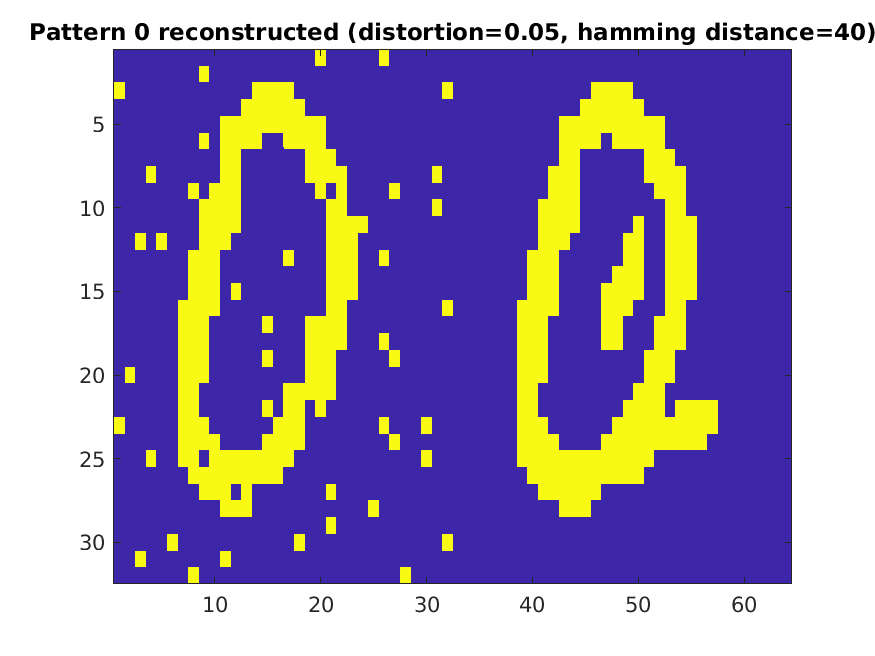
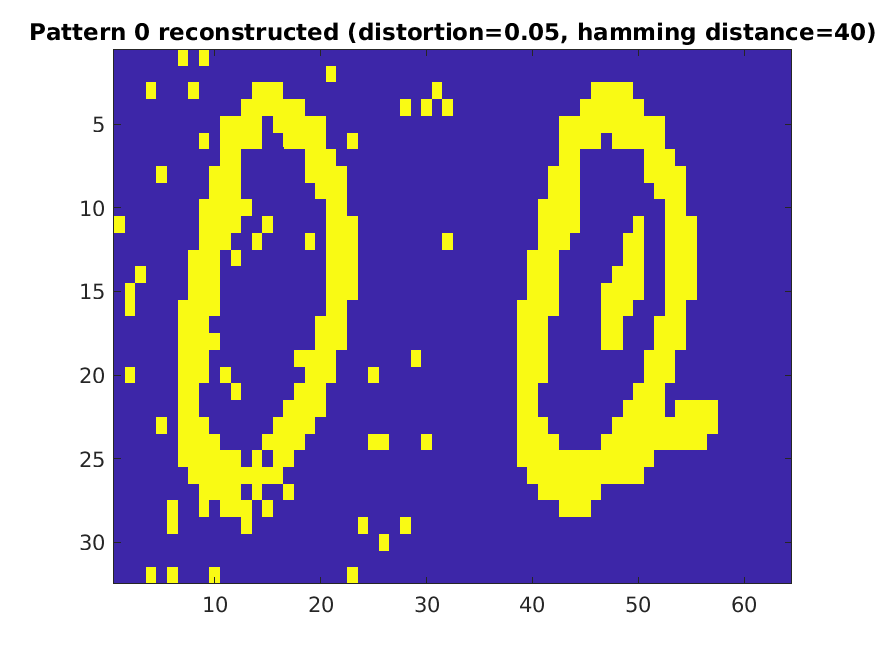
refactoring

diff --git a/LAB2_2/Assignment1/hopfield.m b/LAB2_2/Assignment1/hopfield.m
@@ -1,35 +1,18 @@
 % Hopfield model
-% <https://elearning.di.unipi.it/pluginfile.php/46092/mod_resource/content/0/LAB2_2-Assignments.pd>
+% <https://elearning.di.unipi.it/mod/resource/view.php?id=10695>
 
 load('lab2_2_data');
 set(groot,'defaultFigureVisible','off');
 
 % distorted images of pattern 0
-d_0_1_orig = distort_image(p0,0.05);
-d_0_2_orig = distort_image(p0,0.1);
-d_0_3_orig = distort_image(p0,0.25);
-d_0_1 = d_0_1_orig;
-d_0_2 = d_0_2_orig;
-d_0_3 = d_0_3_orig;
+d_0_1 = distort_image(p0,0.05); d_0_2 = distort_image(p0,0.1); d_0_3 = distort_image(p0,0.25);
 % distorted images of pattern 1
-d_1_1_orig = distort_image(p1,0.05);
-d_1_2_orig = distort_image(p1,0.1);
-d_1_3_orig = distort_image(p1,0.25);
-d_1_1 = d_1_1_orig;
-d_1_2 = d_1_2_orig;
-d_1_3 = d_1_3_orig;
+d_1_1 = distort_image(p1,0.05); d_1_2 = distort_image(p1,0.1); d_1_3 = distort_image(p1,0.25);
 % distorted images of pattern 2
-d_2_1_orig = distort_image(p2,0.05);
-d_2_2_orig = distort_image(p2,0.1);
-d_2_3_orig = distort_image(p2,0.25);
-d_2_1 = d_2_1_orig;
-d_2_2 = d_2_2_orig;
-d_2_3 = d_2_3_orig;
-%imagesc([reshape(d_0_1,32,32) reshape(d_0_2,32,32) reshape(d_0_3,32,32)]);
+d_2_1 = distort_image(p2,0.05); d_2_2 = distort_image(p2,0.1); d_2_3 = distort_image(p2,0.25);
 eps = 1;
 
-
-% (1) storage phase (learning)
+%% (1) storage phase (learning)
 P = [p0';p1';p2'];
 W = 1/1024 * (P' * P);
 for i=1:1024
@@ -37,13 +20,14 @@ for i=1:1024
 end
 I = ones(1024,1)*0.5;  % bias
 
-% (2) retrieval phase
-% (2.1) initialization
-O = [d_0_1_orig';d_0_2_orig';d_0_3_orig';d_1_1_orig';d_1_2_orig';d_1_3_orig';d_2_1_orig';d_2_2_orig';d_2_3_orig'];  % original images
-D = [d_0_1';d_0_2';d_0_3';d_1_1';d_1_2';d_1_3';d_2_1';d_2_2';d_2_3'];  % distorted images
+%% (2) retrieval phase
+%% (2.1) initialization
+O = [d_0_1';d_0_2';d_0_3';d_1_1';d_1_2';d_1_3';d_2_1';d_2_2';d_2_3'];  % original images
+D = O;  % distorted images
 L = [[0,0.05];[0,0.10];[0,0.25];[1,0.05];[1,0.10];[1,0.25];[2,0.05];[2,0.10];[2,0.25]];  % patterns info
-Ps = [p0';p0';p0';p1';p1';p1';p2';p2';p2'];
+Ps = [p0';p0';p0';p1';p1';p1';p2';p2';p2'];  % patterns of each distorted images
 
+% for each pattern distortions
 for p=1:size(D,1)
     epoch = 1;
     overlaps = [];
@@ -51,9 +35,9 @@ for p=1:size(D,1)
     pattern_num = L(p,1);
     pattern_distortion = L(p,2);
     energy_old = energy(W, I, D(p,:));
-    % (2.2) iteration until convergence
+    %% (2.2) iteration until convergence
     while 1
-        % (2.3) choose i random neuron
+        %% (2.3) choose i random neuron
         for i=randperm(1024)
             D(p,i) = sign(W(i,:) * D(p,:)' + I(i));
             overlaps = horzcat(overlaps,[overlap(p0, D(p,:)) overlap(p1, D(p,:)) overlap(p2, D(p,:))]');
@@ -69,6 +53,7 @@ for p=1:size(D,1)
         epoch = epoch + 1;
     end
     
+    %% plottings
     disp('Saving figures . . .');
     fig = figure;
     hold on;
@@ -76,15 +61,15 @@ for p=1:size(D,1)
     plot((1:size(overlaps,2)),overlaps(2,:));
     plot((1:size(overlaps,2)),overlaps(3,:));
     title(sprintf('Overlaps (pattern=%d, distortion=%0.2f)',pattern_num,pattern_distortion));
-    xlabel('ticks')
+    xlabel('ticks');
     ylabel('overlap function');
-    legend('overlap with pattern 0','overlap with pattern 1','overlap with pattern 2');
+    legend({'overlap with pattern 0','overlap with pattern 1','overlap with pattern 2'},'Location','southeast');
     print(fig,sprintf('images/distorted_%d_%0.2f_overlap.png',pattern_num,pattern_distortion),'-dpng');
     hold off;
     fig = figure;
     plot((1:size(energies,2)),energies(1,:));
     title(sprintf('Energy (pattern=%d, distortion=%0.2f)',pattern_num,pattern_distortion));
-    xlabel('ticks')
+    xlabel('ticks');
     ylabel('energy');
     print(fig,sprintf('images/distorted_%d_%0.2f_energy.png',pattern_num,pattern_distortion),'-dpng');
     fig = figure;
@@ -92,7 +77,6 @@ for p=1:size(D,1)
     title(sprintf('Pattern %d reconstructed (distortion=%0.2f, hamming distance=%d)',pattern_num,pattern_distortion,hamming_distance(D(p,:), Ps(p,:))));
     print(fig,sprintf('images/distorted_%d_%0.2f_reconstructed.png',pattern_num,pattern_distortion),'-dpng');
 end
-
 
 %%%%%%%%%%%%%%%%%%%%%%%%%%%%%%%%%%%%%%%%%%%%%%%%%%%%%%%%%%%%%%%%%%%%%%%%%%%
 function m = overlap(p, x)
